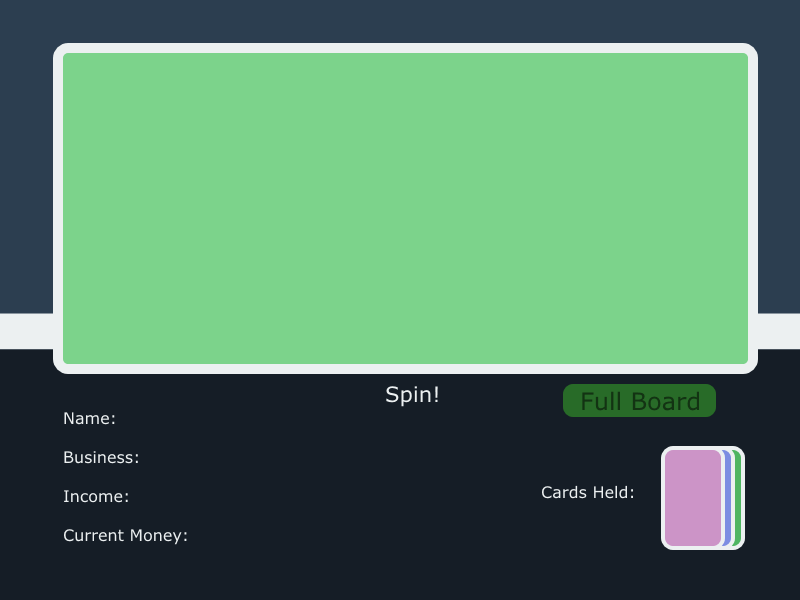
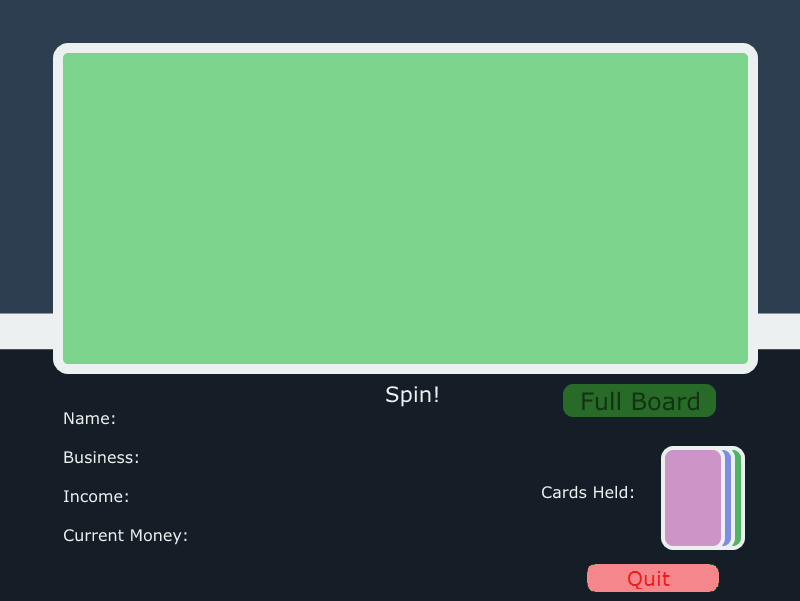
Added a Quit button, for plyer to quit current game

diff --git a/src/main/java/edu/asu/cst316/GameMain.java b/src/main/java/edu/asu/cst316/GameMain.java
@@ -393,6 +393,20 @@ public class GameMain extends BasicGameState{
 		yPosition <= 155){
 			sbg.enterState(6);
 		}
+		
+		//If player decides to quit in the middle of the game 
+		//Quit button 
+		if(input.isMouseButtonDown(0) &&
+				xPosition > 585 &&
+				xPosition < 718 &&
+				yPosition < 36 &&
+				yPosition > 7){
+					recordPlayerScore();
+					showEndGameWindow = false;
+					gameboard.reset();
+					updateBoardView(gameboard.getCurrentSpace().getPosX(), gameboard.getCurrentSpace().getPosY());
+					sbg.enterState(0);
+		}
 	}
 
 	//@Override
